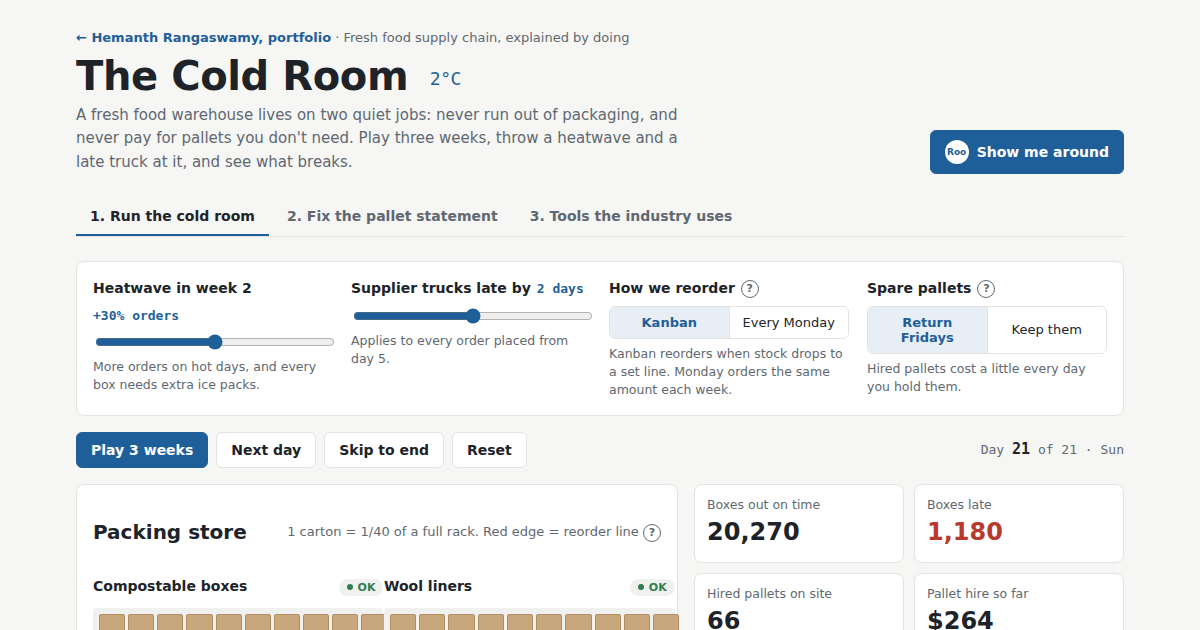
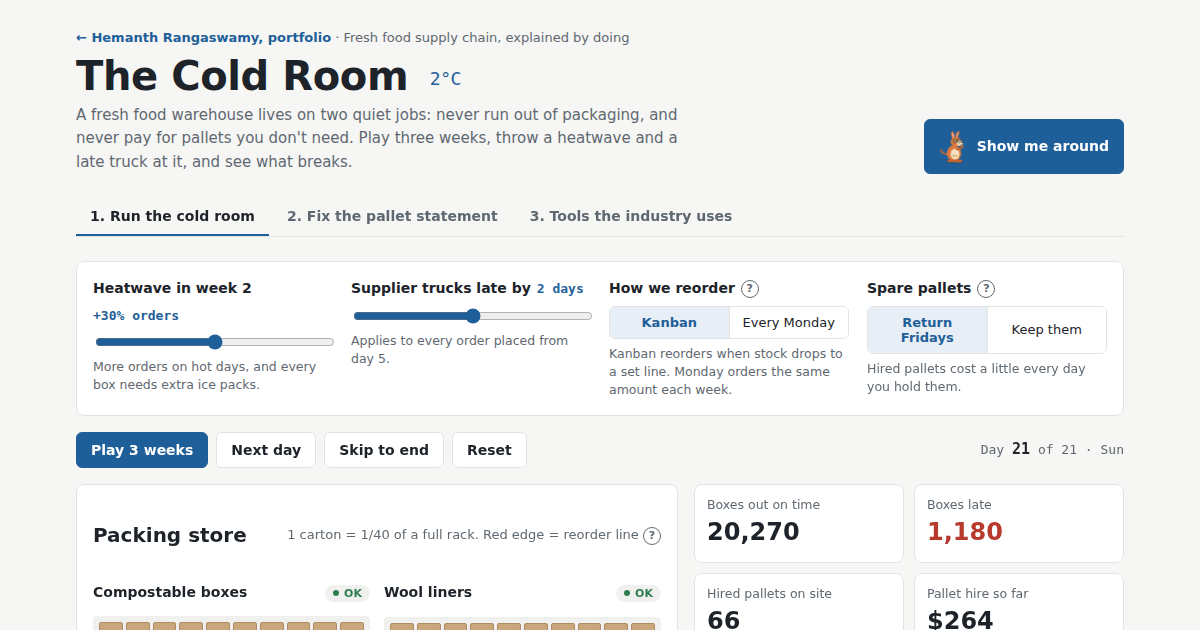
Add Roo mascot to The Cold Room and fix rack layout

diff --git a/cold-room.html b/cold-room.html
@@ -11,7 +11,43 @@
 <meta property="og:url" content="https://hemanth-gowda23.github.io/Portfolio_Gowda23/cold-room.html">
 <meta property="og:type" content="article">
 <meta name="twitter:card" content="summary_large_image">
-<style>html{-webkit-text-size-adjust:100%}body{margin:0}[hidden]{display:none!important}img{max-width:100%}</style>
+<style>html{-webkit-text-size-adjust:100%}body{margin:0}[hidden]{display:none!important}img{max-width:100%}/* MASCOT: Roo */
+.roo svg{display:block;width:100%;height:auto;overflow:visible}
+.roo .body-g{transform-origin:60px 130px;transform-box:view-box;animation:breathe 3.2s ease-in-out infinite}
+.roo .tail{transform-origin:44px 104px;transform-box:view-box;animation:sway 2.6s ease-in-out infinite}
+.roo .earL{transform-origin:58px 34px;transform-box:view-box;animation:twitch 5s ease-in-out infinite}
+.roo .earR{transform-origin:70px 32px;transform-box:view-box;animation:twitch 5s ease-in-out .4s infinite}
+.roo .eyes{transform-origin:70px 46px;transform-box:view-box;animation:blink 4.5s infinite}
+.roo .arm{transform-origin:70px 80px;transform-box:view-box;transition:transform .45s cubic-bezier(.3,1.5,.5,1)}
+.roo .arm2{transform-origin:56px 80px;transform-box:view-box;transition:transform .45s cubic-bezier(.3,1.5,.5,1)}
+.roo .pb{transform-box:fill-box;transform-origin:bottom;animation:grow 2.4s ease-in-out infinite}
+.roo .pb:nth-child(2){animation-delay:.3s}.roo .pb:nth-child(3){animation-delay:.6s}
+.roo .happy,.roo .sad{display:none}
+.roo.cheer .eyes,.roo.facepalm .eyes{display:none}
+.roo.cheer .happy{display:inline}.roo.facepalm .sad{display:inline}
+.roo.point .arm{transform:rotate(-18deg)}
+.roo.wave .arm{animation:wave .5s ease-in-out 4}
+.roo.cheer .arm{transform:rotate(-95deg)}.roo.cheer .arm2{transform:rotate(80deg)}
+.roo.cheer svg{animation:jump .55s ease 3}
+.roo.facepalm .arm{transform:rotate(-128deg) translate(4px,-4px)}
+.roo.facepalm .body-g{animation:none;transform:rotate(-4deg)}
+.roo.think .arm{transform:rotate(-110deg)}
+.roo.hop svg{animation:hop .6s ease}
+@keyframes breathe{50%{transform:scale(1.02,.985)}}
+@keyframes sway{50%{transform:rotate(9deg)}}
+@keyframes twitch{0%,86%,100%{transform:rotate(0)}90%{transform:rotate(-14deg)}94%{transform:rotate(6deg)}}
+@keyframes blink{0%,92%,100%{transform:scaleY(1)}95%{transform:scaleY(.1)}}
+@keyframes grow{50%{transform:scaleY(.55)}}
+@keyframes wave{50%{transform:rotate(-70deg)}}
+@keyframes jump{40%{transform:translateY(-26px) rotate(-4deg)}70%{transform:translateY(0) scale(1.05,.94)}}
+@keyframes hop{0%{transform:translateY(0)}30%{transform:translateY(-30px) scale(.96,1.05)}60%{transform:translateY(0) scale(1.08,.92)}100%{transform:none}}
+.roo{display:block}
+.roo-hero{width:30px;flex:none}
+#rooFig{width:64px;flex:none;align-self:end}
+.tour-card .roo{width:46px;flex:none}
+.roo-panel{grid-template-columns:64px minmax(0,1fr)!important;align-items:end!important}
+@media (prefers-reduced-motion:reduce){.roo *,.roo svg{animation:none!important;transition:none!important}}
+</style>
 
 <link rel="preconnect" href="https://fonts.googleapis.com">
 <link rel="stylesheet" href="https://fonts.googleapis.com/css2?family=Public+Sans:wght@400;500;600;700&family=JetBrains+Mono:wght@400;500&display=swap">
@@ -68,14 +104,14 @@ input[type=range]{width:100%;accent-color:var(--accent)}
 @media (max-width:840px){.floor{grid-template-columns:1fr}.clock{margin-left:0}}
 .racks{display:grid;grid-template-columns:repeat(2,minmax(0,1fr));gap:14px}
 @media (max-width:520px){.racks{grid-template-columns:1fr}}
-.rack{display:grid;gap:8px}
+.rack{display:grid;gap:8px;min-width:0}
 .rack .hd{display:flex;justify-content:space-between;gap:8px;align-items:baseline}
 .rack .nm{font-weight:600;font-size:14px}
 .chip{font:600 11px var(--sans);padding:2px 8px;border-radius:999px;background:var(--soft);color:var(--muted)}
 .chip.ok{color:var(--ok)} .chip.warn{color:var(--warn)} .chip.bad{color:var(--bad)}
 .chip.dot::before{content:"";display:inline-block;width:6px;height:6px;border-radius:50%;background:currentColor;margin-right:5px;vertical-align:1px}
-.grid{display:grid;grid-template-columns:repeat(10,1fr);gap:3px;padding:6px;background:var(--soft);border-radius:4px}
-.cell{aspect-ratio:1.35;border-radius:2px;border:1px dashed var(--line)}
+.grid{display:grid;grid-template-columns:repeat(10,minmax(0,1fr));gap:3px;padding:6px;background:var(--soft);border-radius:4px}
+.cell{aspect-ratio:1.35;min-width:0;border-radius:2px;border:1px dashed var(--line)}
 .cell.on{background:var(--carton);border:1px solid var(--carton-edge)}
 .cell.rp{box-shadow:inset 0 -3px 0 var(--bad)}
 .rack .meta{font-family:var(--mono);font-size:12px;color:var(--muted);font-variant-numeric:tabular-nums;display:flex;justify-content:space-between;gap:8px;flex-wrap:wrap}
@@ -86,10 +122,10 @@ input[type=range]{width:100%;accent-color:var(--accent)}
 .stat .k{font-size:12.5px;color:var(--muted)}
 .stat .v{font-size:24px;font-weight:700;font-variant-numeric:tabular-nums}
 .stat .v.bad{color:var(--bad)} .stat .v.ok{color:var(--ok)}
-.roo{display:grid;grid-template-columns:auto minmax(0,1fr);gap:12px;align-items:start;border:1px solid var(--line);border-radius:8px;padding:12px;background:var(--accent-soft)}
+.roo-box{display:grid;grid-template-columns:auto minmax(0,1fr);gap:12px;align-items:start;border:1px solid var(--line);border-radius:8px;padding:12px;background:var(--accent-soft)}
 .avatar{width:38px;height:38px;border-radius:50%;background:var(--accent);color:#fff;display:grid;place-items:center;font:700 13px var(--sans);flex:none}
-.roo p{margin:0;font-size:14px}
-.roo .who{font-size:12px;color:var(--muted);font-weight:600}
+.roo-box p{margin:0;font-size:14px}
+.roo-box .who{font-size:12px;color:var(--muted);font-weight:600}
 .log{border:1px solid var(--line);border-radius:8px;background:var(--panel);max-height:220px;overflow:auto;font:12.5px/1.5 var(--mono)}
 .log div{padding:6px 12px;border-bottom:1px solid var(--line);display:grid;grid-template-columns:34px minmax(0,1fr);gap:6px}
 .log .d{color:var(--muted)} .log .bad{color:var(--bad)} .log .good{color:var(--ok)} .log .hot{color:var(--warn)}
@@ -167,7 +203,7 @@ footer{font-size:12.5px;color:var(--muted);border-top:1px solid var(--line);padd
       <h1>The Cold Room <small>2&deg;C</small></h1>
       <p class="lede">A fresh food warehouse lives on two quiet jobs: never run out of packaging, and never pay for pallets you don't need. Play three weeks, throw a heatwave and a late truck at it, and see what breaks.</p>
     </div>
-    <button class="btn roo-btn primary" id="tourBtn" type="button"><span class="avatar" style="width:24px;height:24px;font-size:9px;background:#fff;color:#1f5f99">Roo</span>Show me around</button>
+    <button class="btn roo-btn primary" id="tourBtn" type="button"><span class="roo roo-hero wave" id="rooHero"></span>Show me around</button>
   </div>
 
   <div class="tabs" role="tablist">
@@ -220,7 +256,7 @@ footer{font-size:12.5px;color:var(--muted);border-top:1px solid var(--line);padd
           <div class="stat"><div class="k">Hired pallets on site</div><div class="v" id="sPal">-</div></div>
           <div class="stat"><div class="k">Pallet hire so far</div><div class="v" id="sCost">-</div></div>
         </div>
-        <div class="roo" id="t-roo" aria-live="polite"><div class="avatar">Roo</div><div><div class="who">Roo, the data kangaroo</div><p id="rooSays"></p></div></div>
+        <div class="roo-box roo-panel" id="t-roo" aria-live="polite"><div class="roo wave" id="rooFig"></div><div><div class="who">Roo, the data kangaroo</div><p id="rooSays"></p></div></div>
         <div class="log" id="log" aria-label="What happened each day"></div>
       </div>
     </div>
@@ -275,6 +311,30 @@ footer{font-size:12.5px;color:var(--muted);border-top:1px solid var(--line);padd
 <script>
 (function(){
 "use strict";
+
+function rooSVG(){return '<svg viewBox="0 0 120 140" aria-hidden="true">'+
+   '<ellipse cx="62" cy="134" rx="34" ry="4" fill="#000" opacity=".15"/>'+
+   '<g class="body-g">'+
+   '<path class="tail" d="M44 104 Q12 112 2 88 Q8 84 12 92 Q22 106 48 96 Z" fill="#c9652c"/>'+
+   '<g class="arm2"><path d="M56 80 Q46 90 44 98" stroke="#c9652c" stroke-width="7" stroke-linecap="round" fill="none"/></g>'+
+   '<ellipse cx="60" cy="96" rx="28" ry="32" fill="#e07a3a"/>'+
+   '<ellipse cx="64" cy="100" rx="17" ry="22" fill="#f7e3c4"/>'+
+   '<g><rect class="pb" x="56" y="98" width="4.5" height="11" rx="1.5" fill="#008a72"/><rect class="pb" x="62" y="94" width="4.5" height="15" rx="1.5" fill="#f5b82e"/><rect class="pb" x="68" y="101" width="4.5" height="8" rx="1.5" fill="#e2572b"/></g>'+
+   '<path d="M49 106 Q64 124 79 106 Z" fill="#ecc998"/>'+
+   '<ellipse cx="50" cy="127" rx="17" ry="6" fill="#c9652c"/><ellipse cx="76" cy="128" rx="17" ry="6" fill="#c9652c"/>'+
+   '<path class="earL" d="M54 38 Q42 6 56 8 Q63 20 63 36 Z" fill="#e07a3a"/><path d="M55 32 Q49 14 56 13 Q60 22 60 32 Z" fill="#f4a9a0"/>'+
+   '<path class="earR" d="M66 34 Q68 2 82 8 Q78 22 73 36 Z" fill="#e07a3a"/><path d="M69 30 Q71 12 78 12 Q75 22 72 31 Z" fill="#f4a9a0"/>'+
+   '<ellipse cx="68" cy="50" rx="21" ry="19" fill="#e07a3a"/>'+
+   '<ellipse cx="83" cy="57" rx="13" ry="9.5" fill="#f7e3c4"/>'+
+   '<ellipse cx="94" cy="53" rx="4" ry="3" fill="#10261f"/>'+
+   '<path d="M84 63 Q88 66 93 61" stroke="#10261f" stroke-width="2" fill="none" stroke-linecap="round"/>'+
+   '<circle cx="75" cy="60" r="3.5" fill="#f4a9a0" opacity=".8"/>'+
+   '<g class="eyes"><circle cx="64" cy="47" r="2.6" fill="#10261f"/><circle cx="80" cy="46" r="2.6" fill="#10261f"/><circle cx="65" cy="46" r=".9" fill="#fff"/><circle cx="81" cy="45" r=".9" fill="#fff"/></g>'+
+   '<g class="happy"><path d="M60 48 Q64 43 68 48" stroke="#10261f" stroke-width="2.2" fill="none" stroke-linecap="round"/><path d="M76 47 Q80 42 84 47" stroke="#10261f" stroke-width="2.2" fill="none" stroke-linecap="round"/></g>'+
+   '<g class="sad"><path d="M60 47 L68 48" stroke="#10261f" stroke-width="2.2" stroke-linecap="round"/><path d="M76 46 L84 47" stroke="#10261f" stroke-width="2.2" stroke-linecap="round"/></g>'+
+   '<circle cx="64" cy="47" r="7.5" fill="rgba(255,255,255,.25)" stroke="#10261f" stroke-width="2.4"/><circle cx="80" cy="46" r="7.5" fill="rgba(255,255,255,.25)" stroke="#10261f" stroke-width="2.4"/><path d="M71.5 46.5 L72.5 46.5" stroke="#10261f" stroke-width="2.4"/>'+
+   '<g class="arm"><path d="M70 80 Q84 86 94 80" stroke="#c9652c" stroke-width="7" stroke-linecap="round" fill="none"/><circle cx="95" cy="79" r="5" fill="#c9652c"/></g>'+
+   '</g></svg>';}
 const $=s=>document.querySelector(s), $$=s=>[...document.querySelectorAll(s)];
 const fmt=n=>Math.round(n).toLocaleString('en-AU'), money=n=>'$'+Math.round(n).toLocaleString('en-AU');
 const DAYS=21, RATE=0.15, BASE=1000, SAFETY=2, CELLS=40;
@@ -348,6 +408,7 @@ function render(){
   $('#sPal').textContent=d?fmt(d.pal):'-';$('#sCost').textContent=d?money(d.cost):'-';
   $('#log').innerHTML=run.slice(0,cur).flatMap(x=>x.ev.map(e=>`<div><span class="d">D${x.day}</span><span class="${e[0]}">${e[1]}</span></div>`)).reverse().join('')||'<div><span class="d"></span><span>Events appear here as the days play.</span></div>';
   $('#rooSays').textContent=roo(d);
+  const fig=$('#rooFig');if(fig){let m='point';if(!d)m='wave';else if(d.ev.find(e=>e[0]==='bad'))m='facepalm';else if(d.day===DAYS&&!d.late)m='cheer';else if(d.day===8&&d.hot)m='think';else if(d.day===DAYS)m='think';fig.className='roo '+m;}
   chart();
 }
 function roo(d){
@@ -417,7 +478,7 @@ function tourOpen(){tourClose();ti=0;hole=document.createElement('div');hole.cla
 function tourClose(){if(hole)hole.remove();if(card)card.remove();hole=card=null;ti=-1;}
 function tourShow(){
   const s=TOUR[ti];showTab(s.tab);
-  card.innerHTML=`<div class="who"><span class="avatar">Roo</span><b>${s.t}</b></div><p>${s.x}</p><div class="nav"><span class="count">${ti+1} / ${TOUR.length}</span><span class="row"><button class="btn" type="button" id="tSkip">${ti===TOUR.length-1?'Close':'Skip'}</button>${ti>0?'<button class="btn" type="button" id="tBack">Back</button>':''}${ti<TOUR.length-1?'<button class="btn primary" type="button" id="tNext">Next</button>':''}</span></div>`;
+  card.innerHTML=`<div class="who"><span class="roo ${ti===0?'wave':ti===TOUR.length-1?'cheer':'point'}">${rooSVG()}</span><b>${s.t}</b></div><p>${s.x}</p><div class="nav"><span class="count">${ti+1} / ${TOUR.length}</span><span class="row"><button class="btn" type="button" id="tSkip">${ti===TOUR.length-1?'Close':'Skip'}</button>${ti>0?'<button class="btn" type="button" id="tBack">Back</button>':''}${ti<TOUR.length-1?'<button class="btn primary" type="button" id="tNext">Next</button>':''}</span></div>`;
   $('#tSkip').onclick=tourClose;
   if($('#tBack'))$('#tBack').onclick=()=>{ti--;tourShow();};
   if($('#tNext'))$('#tNext').onclick=()=>{ti++;tourShow();};
@@ -510,7 +571,7 @@ function check(){
 $('#check').onclick=check;$('#sample').onclick=()=>{$('#ours').value=OURS;$('#theirs').value=THEIRS;check();};
 $('#ours').value=OURS;$('#theirs').value=THEIRS;check();
 
-buildRacks();labels();run=simulate(cfg);cur=9;render();compare();
+document.getElementById('rooHero').innerHTML=rooSVG();document.getElementById('rooFig').innerHTML=rooSVG();buildRacks();labels();run=simulate(cfg);cur=9;render();compare();
 try{const t=localStorage.getItem('coldroom-tab');if(t&&document.getElementById(t))showTab(t);}catch(e){}
 })();
 </script>
